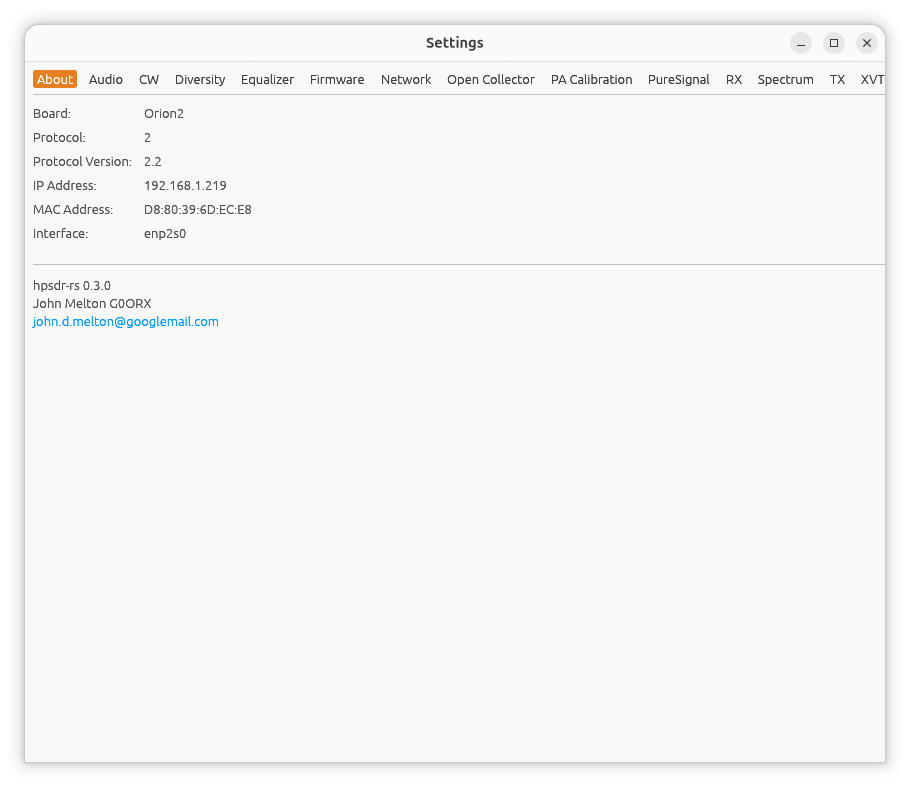
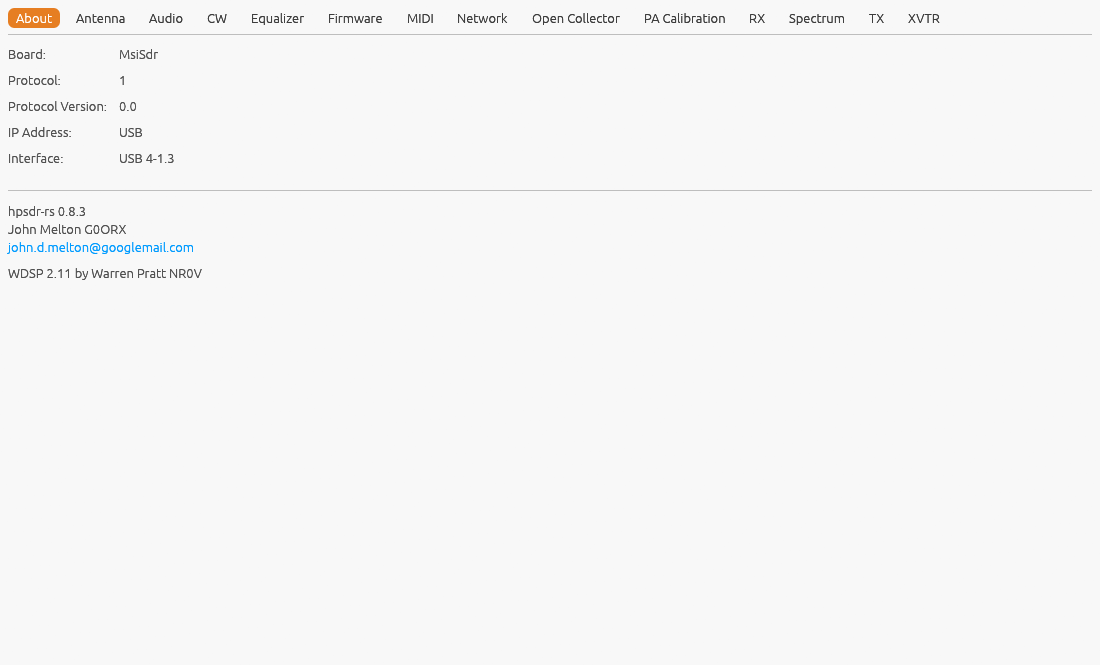
Manual: current About tab screenshot (with WDSP line); USB boards' rows
Replaces the v0.3.0 About screenshot with one showing the WDSP version
line. It's from an MSI.SDR, so also describe what the address rows show
for every USB-connected board (Ozy, RX-888, RTL-SDR, MSI.SDR), not just
Ozy: IP "USB", no MAC row, and the USB port as the interface for the
RTL-SDR/MSI.SDR.

Claude-Session: https://claude.ai/code/session_01Bv7L38cLjKUp56MZzxjNWQ

Changed region(s): [[0.0, 0.0, 0.9846, 0.9624]]

diff --git a/docs/manual/04-about.md b/docs/manual/04-about.md
@@ -13,11 +13,15 @@ Shows details of the radio currently connected to:
   Ethernet).
 - **Protocol Version** -- the firmware's reported protocol version.
 - **IP Address** -- the radio's own address on the network. Shows "USB"
-  for [Ozy USB](19-ozy-usb.md) instead, which has no network address.
+  instead for the USB-connected boards, which have no network address:
+  [Ozy](19-ozy-usb.md), [RX-888 Mk2](20-rx888-mk2.md), RTL-SDR and
+  MSI.SDR.
 - **MAC Address** -- the radio's hardware Ethernet address. Not shown
-  for Ozy (no real MAC).
+  for the USB-connected boards (no real MAC).
 - **Interface** -- which of this computer's own network interfaces (e.g.
-  `eth0`) the connection is using. Shows "USB" for Ozy.
+  `eth0`) the connection is using. For an RTL-SDR or MSI.SDR, the USB
+  port it's plugged into (e.g. `USB 4-1.3` above), which tells two
+  dongles apart; "USB" for Ozy and the RX-888.
 
 Connected to Ozy USB specifically, three extra rows also appear: **Ozy
 FX2 Version**, **Mercury FW** (one or two version numbers, separated by
